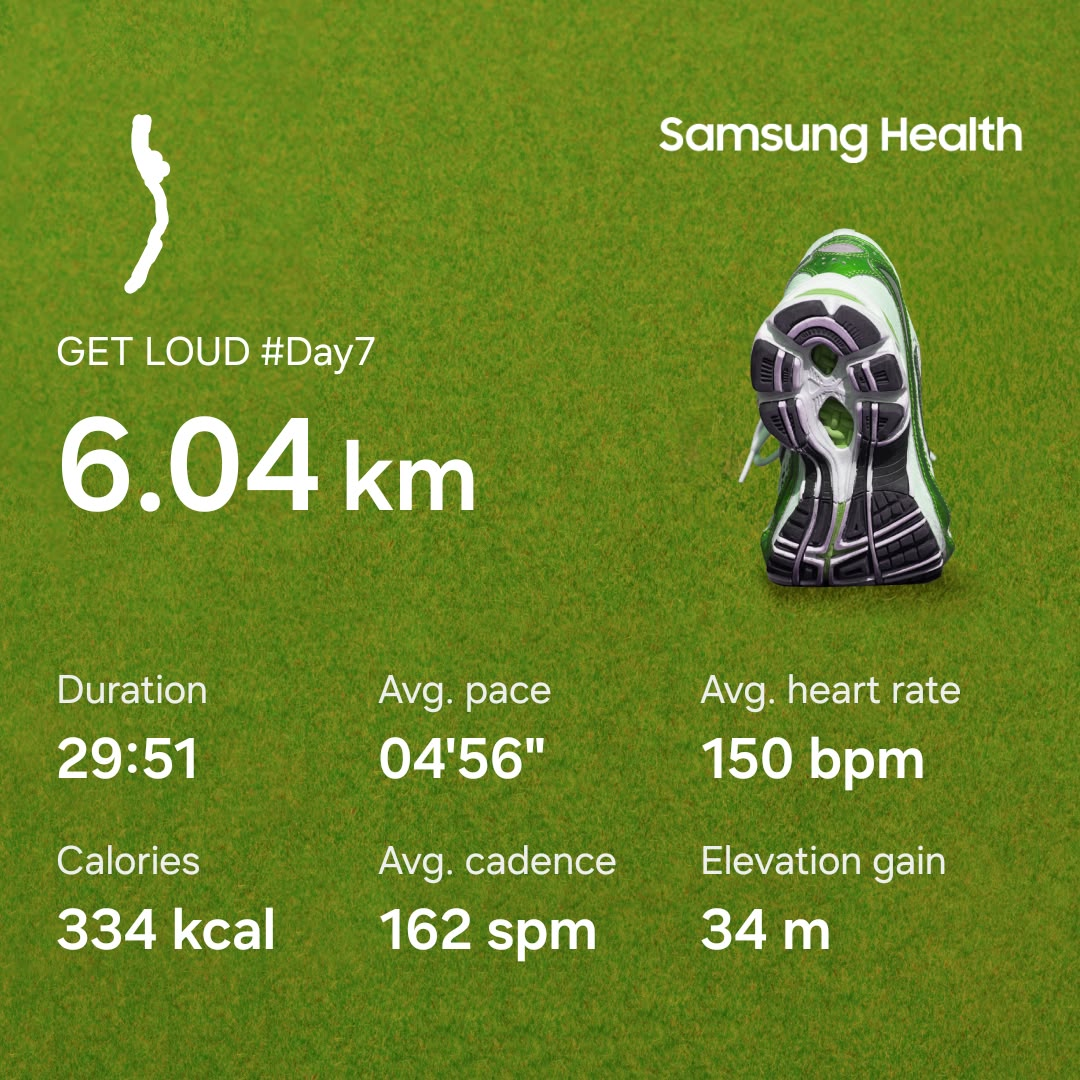
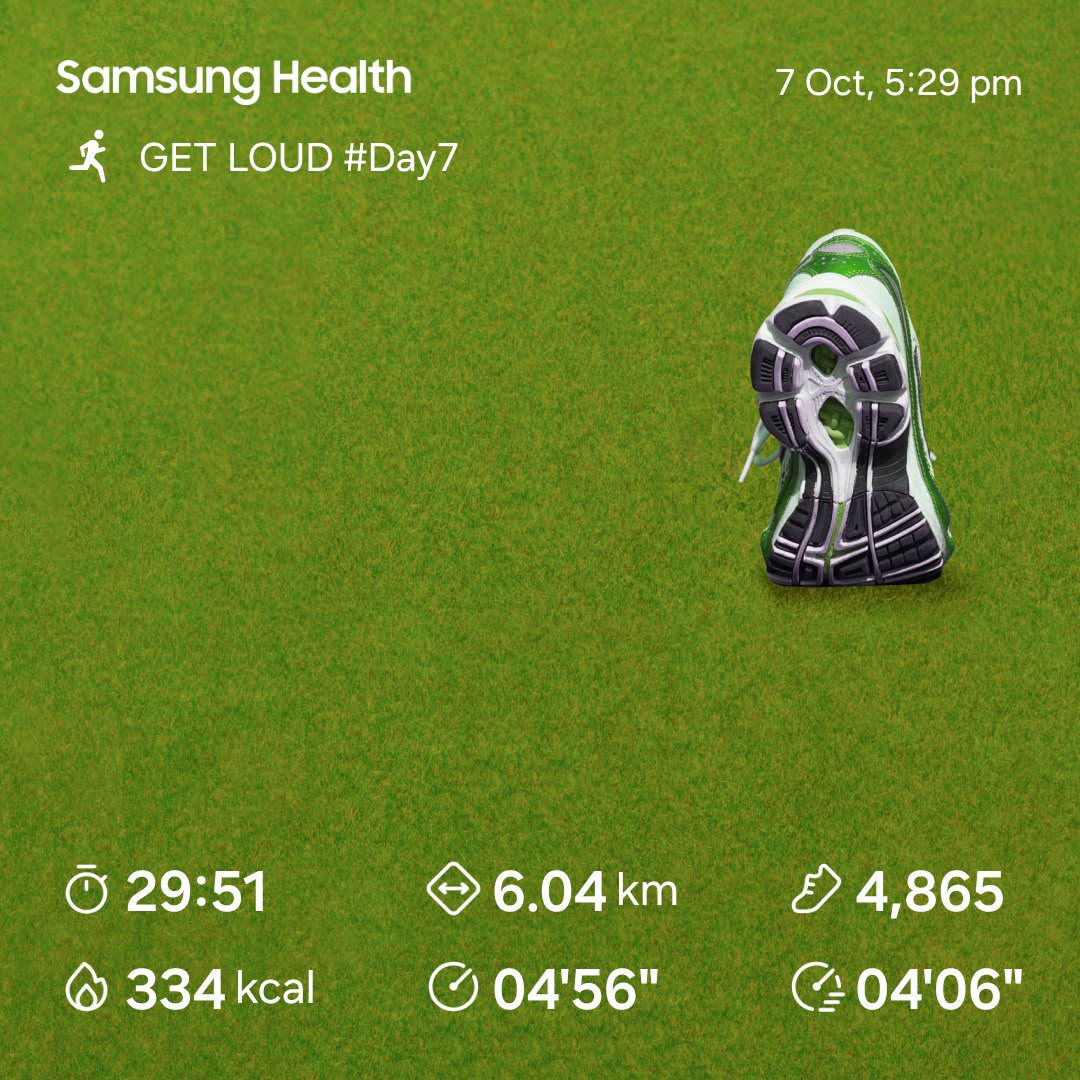
removed inconsistent day7 data and added consistent data

diff --git a/src/data/runningLogs.js b/src/data/runningLogs.js
@@ -207,22 +207,23 @@ export const runningLogs = [
       stepsDelta: "-189 steps",
     },
   },
+  
   {
     day: 7,
     date: "2026-10-07",
     dateLabel: "7 Oct",
     fullDate: "Wednesday, 7 Oct 2026",
-    time: "7:30 pm",
+    time: "5:29 pm",
     distanceKm: 6.04,
     duration: "29:51",
     pace: "04'56\"",
     avgSpeedKmh: 12.1,
-    fastestPace: "04'56\"",
-    steps: 0,
-    cadenceSpm: 162,
+    fastestPace: "04'06\"",
+    steps: 4865,
+    cadenceSpm: null,
     avgStrideM: null,
     calories: 334,
-    elevationM: 34,
+    elevationM: null,
     routeType: "Evening Loop",
     routeLocation: "Perth, WA",
     routeDescription: "Day 7 evening run. 6.04 km covered in 29:51 at an average pace of 04'56\"/km.",
@@ -237,7 +238,7 @@ export const runningLogs = [
       distanceDelta: "-0.05 km",
       paceDelta: "+1s/km slower",
       speedDelta: "-0.1 km/h",
-      stepsDelta: "-4,838 steps",
+      stepsDelta: "+27 steps",
     },
   },
 ];
